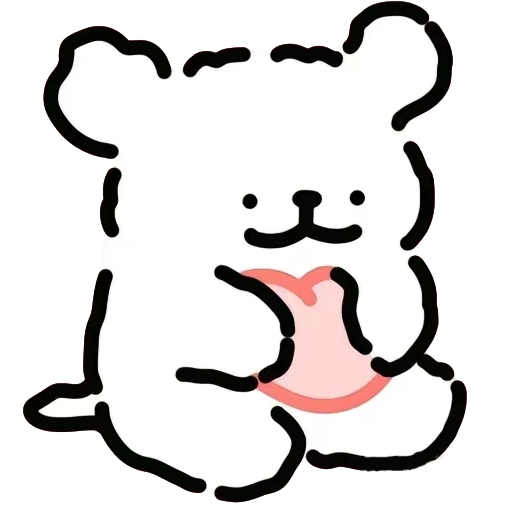
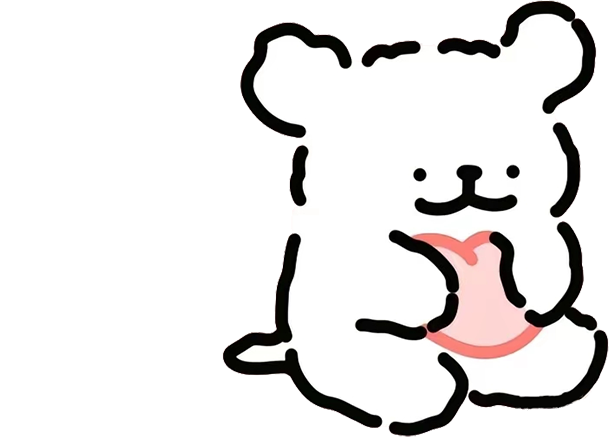
+start_animatedFrames, +author_mark

Changed region(s): [[0.0296, 0.0, 1.0, 1.0]]

diff --git a/ZhixuewangScoreExtension/content-scripts/loveplaza.js b/ZhixuewangScoreExtension/content-scripts/loveplaza.js
@@ -21,6 +21,17 @@ function showButton() {
     button.onclick = onButtonClick
 }
 function onButtonClick() {
+    setTimeout(function () {
+        $(".ext_loveplaza_start_img")[0].setAttribute("src", chrome.runtime.getURL("images/loveplaza_maltese_frame1.png"))
+        setTimeout(function () {
+            $(".ext_loveplaza_start_img")[0].setAttribute("src", chrome.runtime.getURL("images/loveplaza_maltese_frame2.png"))
+            setTimeout(function () {
+                onAnimateStarted()
+            }, 500)
+        }, 500)
+    }, 500)
+}
+function onAnimateStarted() {
     cleanupLayout()
     $("div.hierarchy")[0].setAttribute("style",
         "display: flex; justify-content: space-around; padding-bottom: 20px; ")
@@ -45,7 +56,7 @@ function onButtonClick() {
     maltese.setAttribute("src", chrome.runtime.getURL("images/loveplaza_maltese_sidebar.png"))
     maltese.setAttribute("style", "--step: -7%")
     var copyright = createElementEx("span", "ext_loveplaza_copyright", parent)
-    copyright.innerHTML = "Illustration from © MALTESE.<br />" +
+    copyright.innerHTML = "Illustration from © MALTESE, @妘箖.<br />" +
         "Designed by LovePlaza 2024, @aquamarine5, @海蓝色的咕咕鸽, RC."
     var final = createElementEx("div", "ext_loveplaza_final_container", parent)
     var loveplaza_img = createElementEx("img", "ext_loveplaza_logo", final)
